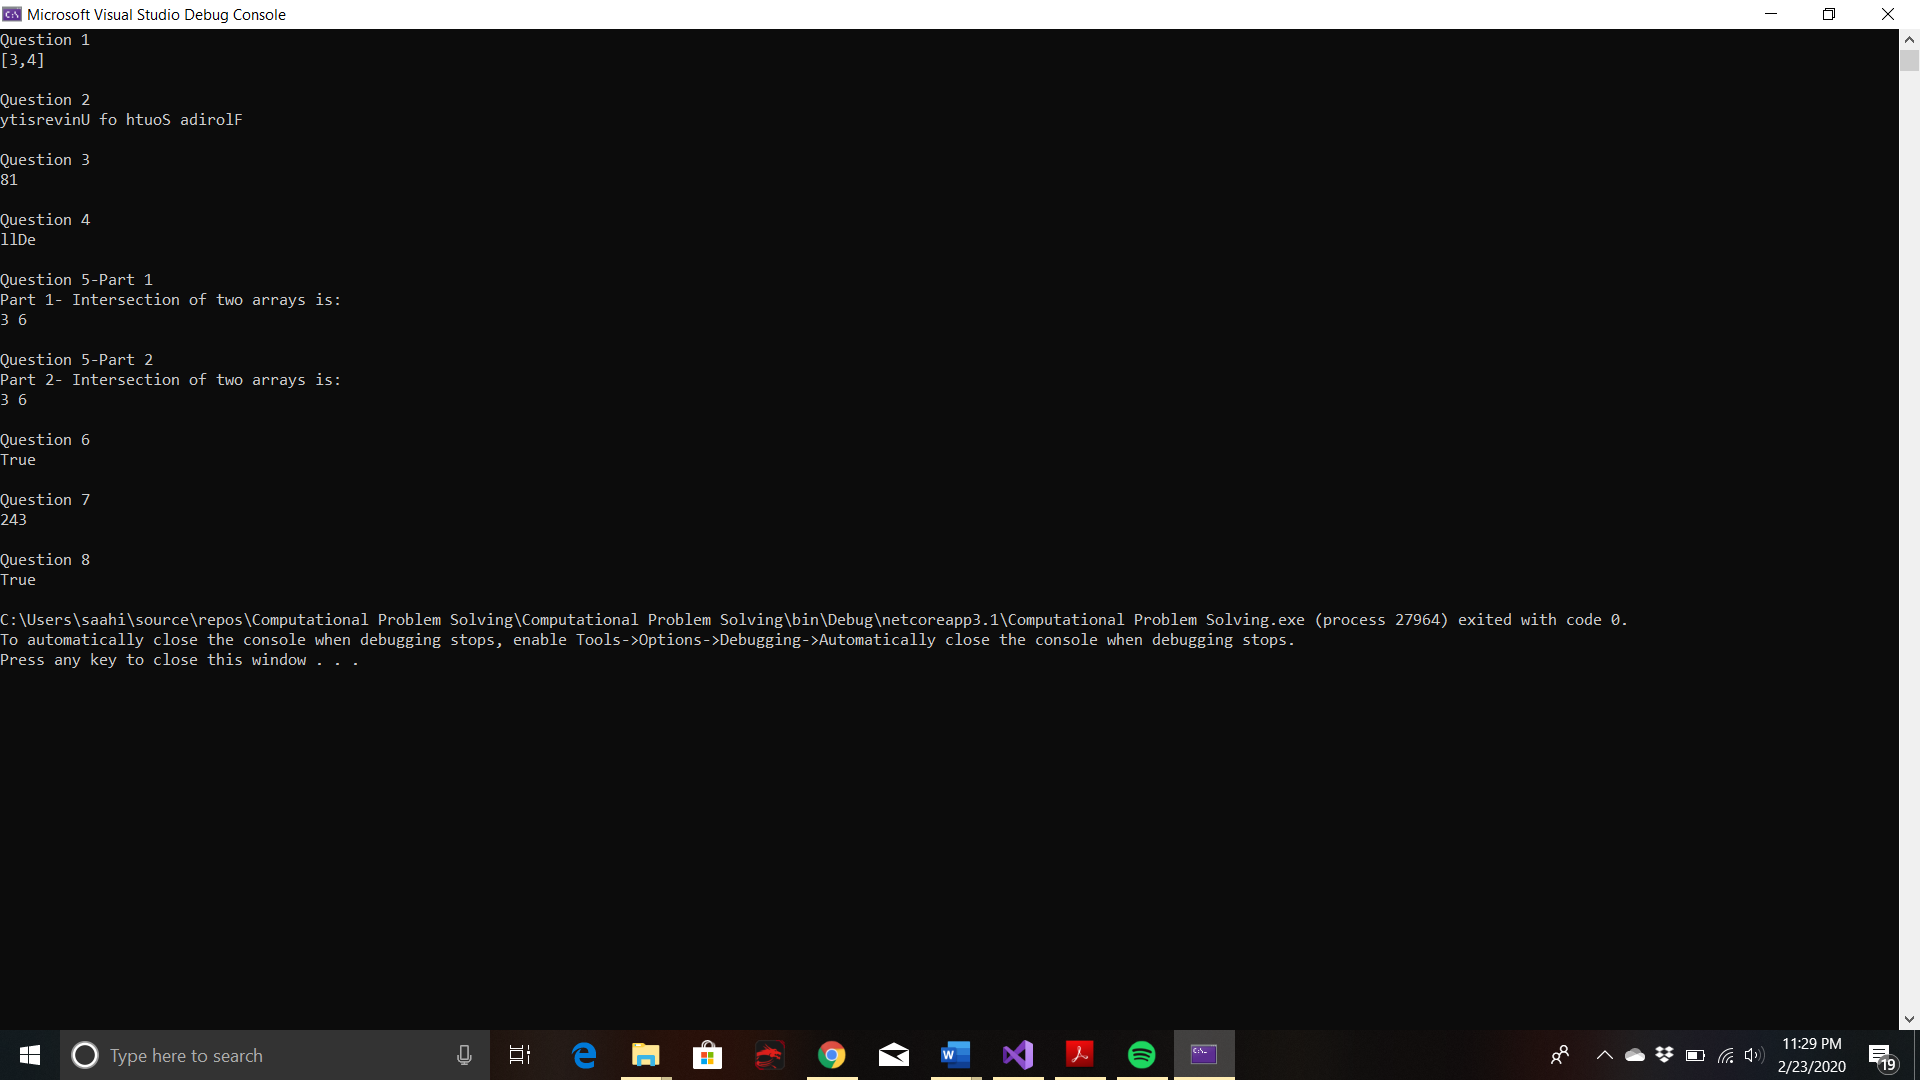
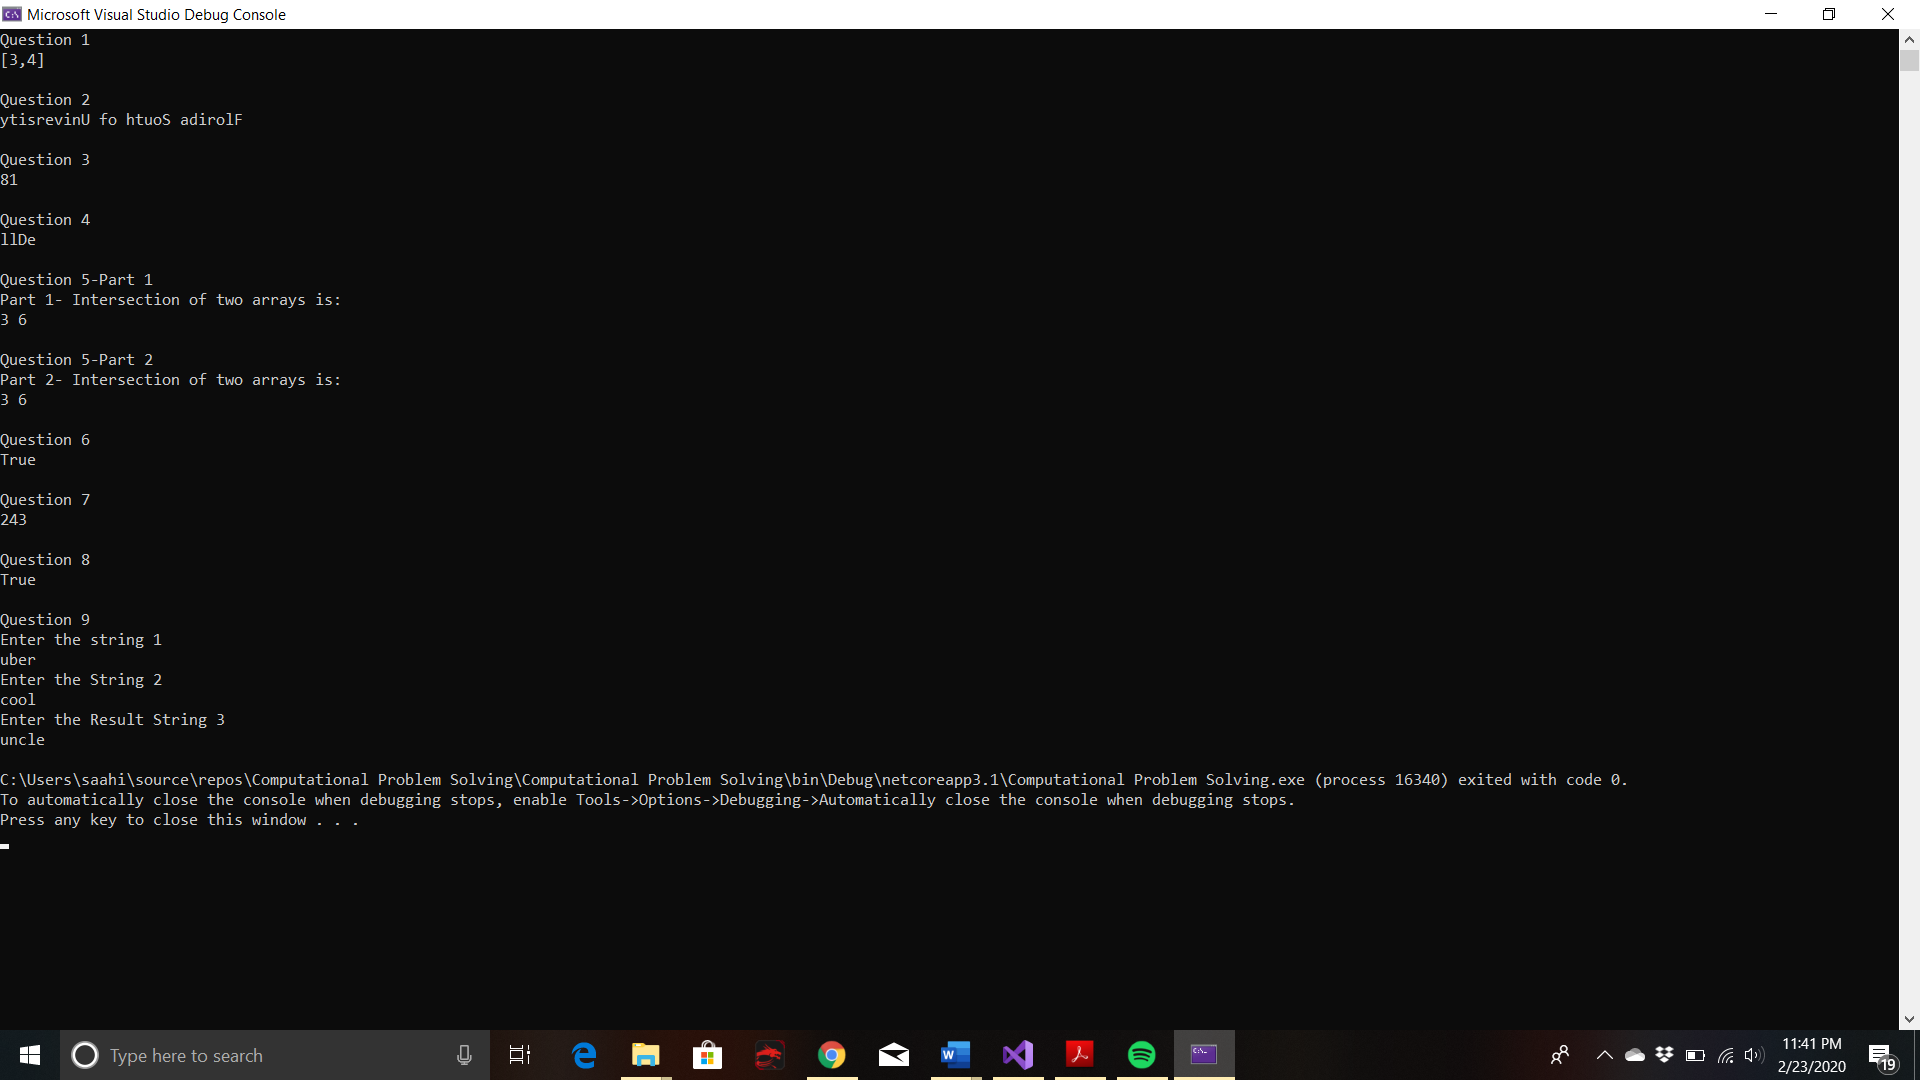
final commit

Changed region(s): [[0.0, 0.55, 0.8438, 0.7639]]

diff --git a/Computational Problem Solving/Program.cs b/Computational Problem Solving/Program.cs
@@ -80,6 +80,8 @@ namespace Computational_Problem_Solving
             string keyword = "hhllo";
             Console.WriteLine(DictSearch(userDict, keyword));
 
+            Console.WriteLine();
+
             Console.WriteLine("Question 9");
             SolvePuzzle();
 
